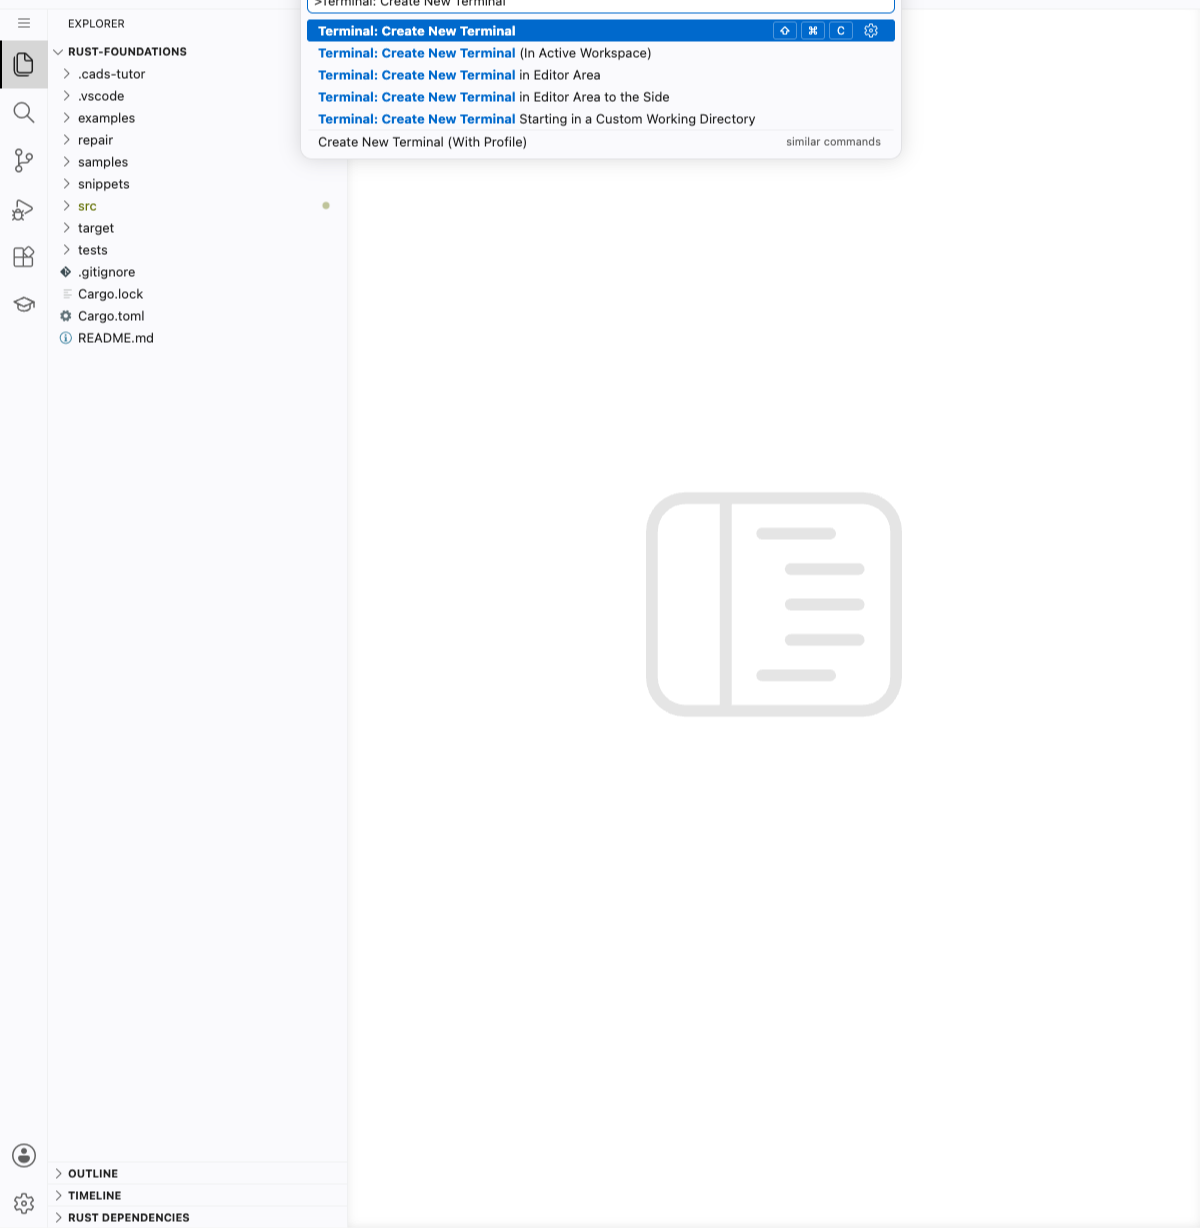
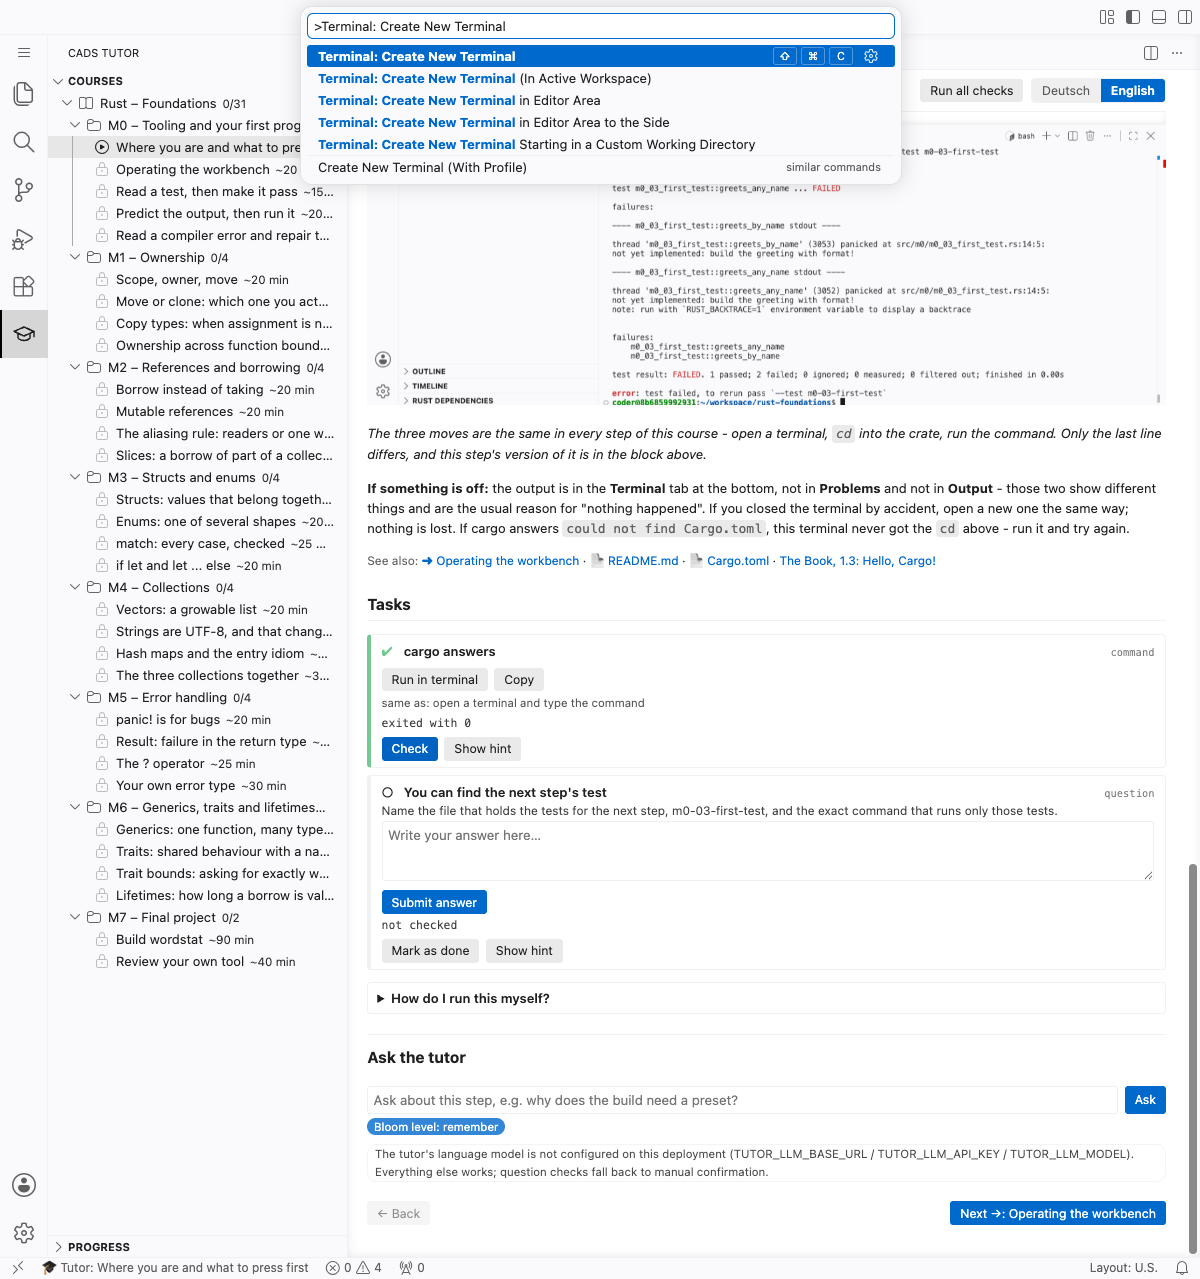
feat(rust): the screenshot series, shot with the course-tree fixes in place
tutor3's fixes (9006791) are verified before shooting, as they asked. Built
the tutor extension from source, overlaid it and this pack into
ghcr.io/scimbe/cads-tutor-lab:next, and checked the tree programmatically
against a pattern of JavaScript step names rather than by eye:

  one course node, Rust - Foundations 0/31
  all 8 modules and all 31 step titles, correctly nested
  foreign titles: 0
  autoOpen opens m0-01-welcome and hides the JavaScript pack

So the workarounds are gone. Five images, none cropped, none containing a
foreign course title:

  tutor-panel-and-tree.png   m0-01  window, course tree, step with its badges
  task-check-result.png      m0-02  task list after Check: green, exited with 0
  palette-new-terminal.png   m0-02  palette in command mode with the >
  terminal-run-a-step.png    all    terminal in the crate, command, real output
  editor-and-test-run.png    m0-03  the file, highlighted, above its failing run

Confirmed while shooting: rust-analyzer runs and Rust is highlighted (status
bar plus rust-analyzer's own RUST DEPENDENCIES section), and a Check button
runs the real command.

The panel also exposed a content bug that reading could not: m0-01 still told
students to run cargo build and then showed its output, although that check
moved to m0-02 in the workbench restructure. The block now runs only
cargo --version and the output section points at the next step.

One finding for whoever runs a class: no language model is configured on that
[…]

diff --git a/courses/rust-foundations/assets/README.md b/courses/rust-foundations/assets/README.md
@@ -1,34 +1,44 @@
 # Screenshots for rust-foundations
 
-Three images, all captured from a real run of this pack in
-`ghcr.io/scimbe/cads-tutor-lab:next` (digest `sha256:efb6fa2a…`, code-server
-4.135, rustc 1.98.0, rust-analyzer 0.3.3033) on 127.0.0.1:8095.
+Five images, all captured from a real run of this pack in
+`ghcr.io/scimbe/cads-tutor-lab:next` on 127.0.0.1:8096, with the tutor
+extension rebuilt from `extensions/cads-tutor` at the commit that fixes the
+course-tree and autoOpen defects (tutor3, 9006791). code-server 4.135,
+rustc 1.98.0, rust-analyzer 0.3.3033.
 
 | File | Used in | Shows |
 |---|---|---|
+| `tutor-panel-and-tree.png` | `m0-01-welcome` | the whole window: the course tree with Rust – Foundations and M0–M7, and the step in the panel with its Bloom and scaffold badges |
+| `task-check-result.png` | `m0-02-workbench` | the task list after pressing Check: the first task ticked green with `exited with 0`, the second a question with its answer box and Show hint |
 | `palette-new-terminal.png` | `m0-02-workbench` | the command palette with `>Terminal: Create New Terminal` and the matching command selected |
 | `terminal-run-a-step.png` | every step with a command or testSuite check | a terminal in the panel, the prompt inside the crate, the command and its real output |
 | `editor-and-test-run.png` | `m0-03-first-test` | the exercise file with Rust syntax highlighting, and below it the real failing test run naming that file and line |
 
-## Two things about these images
+## What was verified while shooting them
 
-**The side bar shows the Explorer, not the tutor.** That is deliberate. The
-tutor panel currently opens the JavaScript course when the Rust workspace is
-opened, and the `Rust – Foundations` node lists JavaScript step titles - still
-reproducible in the image above, reported to the tutor stream. An image of the
-wrong course beside a Rust instruction would teach the wrong thing more
-effectively than no image at all. What each picture shows - terminal, editor,
-panel tabs, toolchain - is unaffected by that defect.
+- **The course tree is correct.** One course node, `Rust – Foundations 0/31`,
+  with all eight modules and all thirty-one step titles, correctly nested. Zero
+  foreign titles - checked programmatically against a pattern of JavaScript
+  step names, not by eye.
+- **autoOpen picks the right course.** Opening the `rust-foundations` folder
+  opens `m0-01-welcome` and hides the JavaScript pack entirely.
+- **Rust highlighting and language support work.** The status bar reads
+  `rust-analyzer` and language mode `Rust`, and the Explorer carries
+  rust-analyzer's own `RUST DEPENDENCIES` section.
+- **A Check button runs the real command.** The first task of `m0-01-welcome`
+  went green with `exited with 0`.
+- **No language model is configured on this deployment.** The panel says so and
+  falls back to manual confirmation, so the 22 `question` checks are unmarked
+  there and their rubrics ungraded. Expected per SPEC 3.3, but it means the
+  rubric work is only exercised where `TUTOR_LLM_BASE_URL` is set.
 
-**The status bar is cropped off** for the same reason: it carried the name of
-the active *JavaScript* step. Cropping cost one piece of evidence, so it is
-recorded here instead: on `src/m0/m0_03_first_test.rs` the status bar read
-`rust-analyzer` and language mode `Rust`, and the Explorer shows rust-analyzer's
-own `RUST DEPENDENCIES` section. Syntax highlighting and language support both
-work; see `docs/review/rust-walkthrough.md`.
+Nothing is cropped and no image contains a foreign course title, so the earlier
+workarounds are gone.
 
-## When the tutor panel is fixed
+## Adding to these
 
-Retake all three with the Rust course selected and the tutor panel open, keep
-the same file names so the embeds do not move, and add a fourth showing the
-task list with a Check button and its result. Then this section can go.
+The three handgrips - open a terminal, `cd` into the crate, run the command -
+are identical in every step, which is why one terminal image is shared across
+all of them with a caption saying so. Twenty-eight near-identical screenshots
+differing in one word would rot on the next UI change and teach nothing extra.
+A step earns its own image when what is on screen differs.

diff --git a/docs/review/rust-walkthrough.md b/docs/review/rust-walkthrough.md
@@ -37,12 +37,21 @@ Also confirmed live, both of which the operator asked about:
   greeting with format!` - exactly what step m0-03 tells the student to expect
   (`docs/review/evidence/lab-terminal-first-test.png`).
 
-**Open, and not mine to fix:** the tutor panel shows the *JavaScript* course
-when the Rust workspace is opened, and the `Rust – Foundations` node in the
-course tree lists JavaScript step titles. Reported to the tutor stream with
-evidence in `docs/review/evidence/lab-overview-wrong-course.png`. Until that is
-fixed the screenshots cannot be embedded in the steps: every one of them would
-show a JavaScript step beside a Rust instruction.
+**Fixed since, and re-verified here.** The tutor panel used to open the
+JavaScript course for a Rust workspace, and the `Rust – Foundations` node used
+to list JavaScript step titles. tutor3 fixed both (interned tree nodes,
+autoOpen filtered by `project.root`). Re-checked in the current image with the
+extension rebuilt from source: one course node, all thirty-one of this pack's
+titles correctly nested, and zero foreign titles - checked programmatically
+against a pattern of JavaScript step names rather than by eye. The screenshots
+are shot and embedded; `courses/rust-foundations/assets/README.md` lists them.
+
+**Open, and worth knowing before a class runs.** No language model is
+configured on that deployment, so the panel falls back to manual confirmation
+and all 22 `question` checks go unmarked. Every rubric and every hint ladder
+written for this pack is therefore inert unless `TUTOR_LLM_BASE_URL` is set.
+That is the SPEC's documented fallback, not a defect, but it means the largest
+part of the pedagogy work is untested in the lab as it stands.
 
 ## Pass 1: the student who gets everything right
 
@@ -214,9 +223,8 @@ almost entirely invisible.
 Both passes get through. The fast student is never made to wait for
 repetition; the struggling student always has a named next action, and after
 the live run the three instructions that would have stranded them on step one
-are corrected. Two risks remain, and neither is in the exercises. The tutor panel still opens
-the JavaScript course for a Rust workspace and lists JavaScript titles under
-the Rust node, which makes the pack unusable in the lab however good the steps
-are. And twelve rubrics still overlap their body more than the rules allow,
-three of them materially; a student who reads carefully can still shortcut
-those three questions.
+are corrected. Two risks remain, and neither is in the exercises. Without a language model
+configured, the 22 rubric-graded questions are unmarked, which is most of what
+distinguishes this pack from a list of exercises. And twelve rubrics still
+overlap their body more than the rules allow, three of them materially; a
+student who reads carefully can still shortcut those three questions.

diff --git a/courses/rust-foundations/steps/m0-01-welcome.de.md b/courses/rust-foundations/steps/m0-01-welcome.de.md
@@ -29,6 +29,10 @@ misconceptions:
 
 Wisse, was du vor dir hast, welcher Befehl die Arbeit startet und wo die Tests eines Steps liegen - damit es in jedem weiteren Step nur noch um Rust geht und nie um das Werkzeug.
 
+![Das Laborfenster. Links listet das Panel CaDS Tutor den Kurs Rust -
+Foundations mit den Modulen M0 bis M7; in der Mitte dieser Step mit seinem
+Bloom-Abzeichen, seinem Scaffold-Abzeichen und seiner Aufgabenliste.](tutor-panel-and-tree.png)
+
 ## Was du siehst
 
 Du bist in einem Rust-*Paket* namens `rust_foundations`. Alles, was der Kurs von dir verlangt, passiert in diesem einen Ordner. Vier Stellen sind wichtig:
@@ -51,16 +55,9 @@ cargo build
 
 Beachte, dass das Paket übersetzt, **obwohl noch nichts implementiert ist**: unfertige Übungen sind `todo!()`, ein Makro, das sich als beliebiger Typ typprüfen lässt und abstürzt, sobald es erreicht wird. Das Paket baut also immer; fehlschlagen tun die Tests.
 
-## Die Ausgabe von cargo lesen
+## Wohin cargo seine Ausgabe legt
 
-Der erste Build lädt nichts herunter und dauert ein bis zwei Sekunden. Zu sehen ist:
-
-```text
-   Compiling rust_foundations v0.1.0 (/home/coder/workspace/rust-foundations)
-    Finished `dev` profile [unoptimized + debuginfo] target(s) in 0.42s
-```
-
-`dev`-Profil heißt: keine Optimierung, volle Debug-Informationen - der richtige Kompromiss für einen Kurs. Alles, was cargo erzeugt, landet in `target/`, das von git ignoriert wird und jederzeit gelöscht werden darf.
+Alles, was cargo erzeugt, landet in `target/`, das von git ignoriert wird und jederzeit gelöscht werden darf. Der nächste Step baut das Paket und liest, was es ausgibt.
 
 ## Die Tests eines einzelnen Steps ausführen
 

diff --git a/courses/rust-foundations/steps/m0-02-workbench.de.md b/courses/rust-foundations/steps/m0-02-workbench.de.md
@@ -63,6 +63,11 @@ Ohne das antwortet cargo mit `could not find Cargo.toml in /home/coder/workspace
 
 2. **Befehlspalette.** Drücke **F1**. Im Browser ist das zuverlässiger als Strg+Umschalt+P, das der Browser für sich behalten kann. Die Palette öffnet in einem von zwei Modi und **merkt sich den zuletzt benutzten**: ohne vorangestelltes `>` sucht sie Dateien, mit `>` sucht sie Befehle. Tippe also `>Terminal: Create New Terminal`. Vergisst du das `>`, erhältst du *No matching results* und es passiert nichts - so sagt dir die Palette, dass sie nach einer Datei dieses Namens sucht.
 
+![Die Aufgabenliste des Tutor-Panels. Die erste Aufgabe ist grün abgehakt und
+zeigt unter ihrer Schaltfläche Prüfen "exited with 0"; die zweite ist eine
+Frage mit Textfeld, einer Schaltfläche zum Abschicken und einer Schaltfläche
+für Hinweise.](task-check-result.png)
+
 3. **Die Schaltfläche Prüfen** im Tutor-Panel neben einer Aufgabe. Sie führt den Befehl dieser Aufgabe aus und zeigt die Ausgabe im Panel. Sie nutzt immer den richtigen Ordner und braucht das `cd` daher nie.
 
 Zum Schließen eines Terminals drückst du das Papierkorbsymbol an seinem rechten Rand oder tippst `exit`. Es geht nichts verloren - ein Terminal hält keinen Zustand, den du brauchst. Öffne auf demselben Weg ein neues, und du bist wieder da, wo du warst.

diff --git a/courses/rust-foundations/steps/m0-02-workbench.en.md b/courses/rust-foundations/steps/m0-02-workbench.en.md
@@ -63,6 +63,10 @@ Without it, cargo answers `could not find Cargo.toml in /home/coder/workspace or
 
 2. **Command palette.** Press **F1**. In a browser this is more reliable than Ctrl+Shift+P, which the browser itself may keep. The palette opens in one of two modes and **remembers the one you used last**: without a leading `>` it searches files, with `>` it searches commands. So type `>Terminal: Create New Terminal`. If you forget the `>`, you get *No matching results* and nothing happens - that is the palette telling you it is looking for a file of that name.
 
+![The tutor panel's task list. The first task is ticked green and reads
+"exited with 0" under its Check button; the second is a question with a text
+box, a Submit answer button and a Show hint button.](task-check-result.png)
+
 3. **The Check button** in the tutor panel, next to a task. It runs that task's command for you and shows the output in the panel. It always uses the right folder, so it never needs the `cd`.
 
 To close a terminal, press the bin icon on its right-hand edge, or type `exit`. Nothing is lost - a terminal holds no state you need. Open a new one the same way and you are back where you were.

diff --git a/courses/rust-foundations/steps/m0-01-welcome.en.md b/courses/rust-foundations/steps/m0-01-welcome.en.md
@@ -29,6 +29,10 @@ misconceptions:
 
 Know what you are looking at, which command starts the work, and where a step's tests live - so that every later step is only about Rust, never about the tooling.
 
+![The lab window. On the left the CaDS Tutor panel lists the course Rust -
+Foundations with its modules M0 to M7; in the middle this step, with its Bloom
+badge, its scaffold badge and its task list.](tutor-panel-and-tree.png)
+
 ## What you see
 
 You are in a Rust *package* called `rust_foundations`. Everything the course asks you to do happens in this one folder. Four places matter:
@@ -44,7 +48,6 @@ Open a terminal in this folder and run:
 
 ```bash
 cargo --version
-cargo build
 ```
 
 `cargo --version` prints something like `cargo 1.94.0`. If it does not, nothing else in this course will work, and the problem is your environment, not your code. The next step, [Operating the workbench](step:m0-02-workbench), goes through the window region by region and through the three ways to run a command; this step only establishes that the toolchain answers at all.
